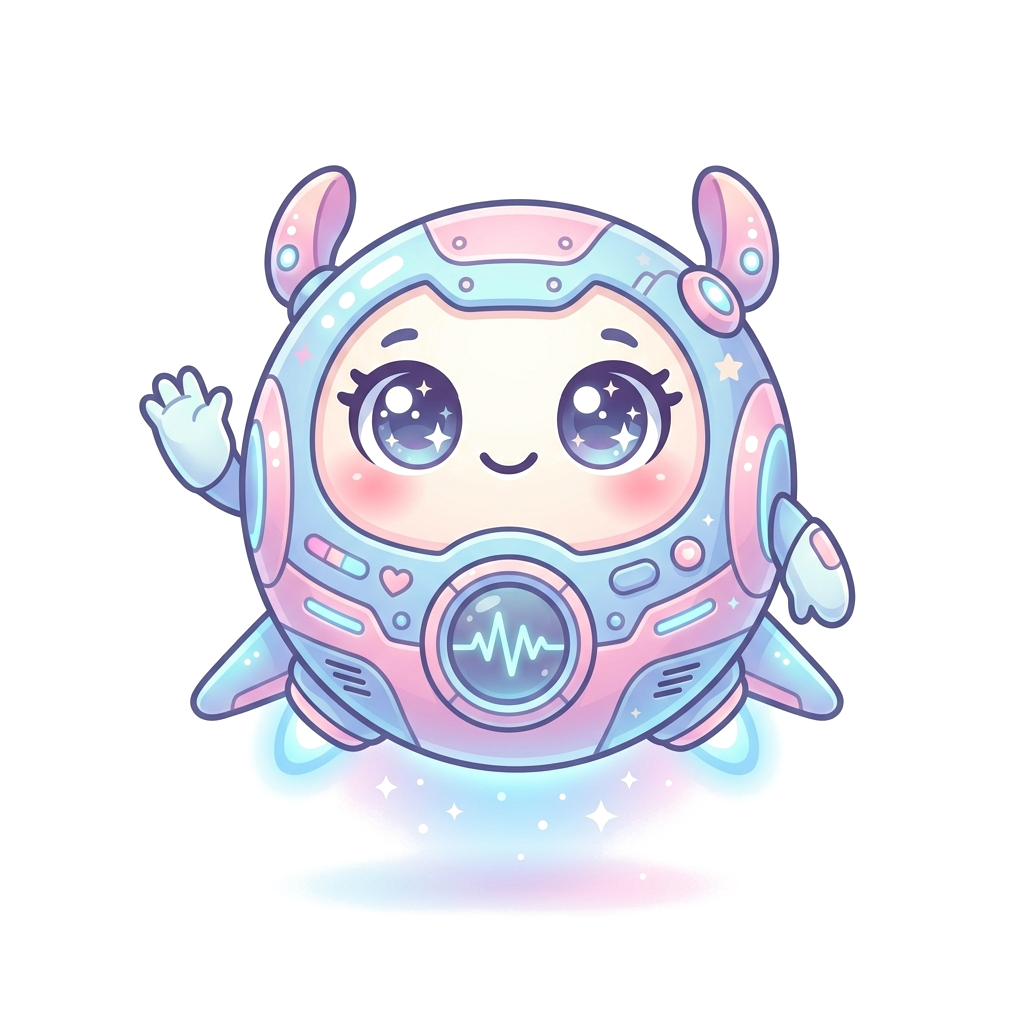
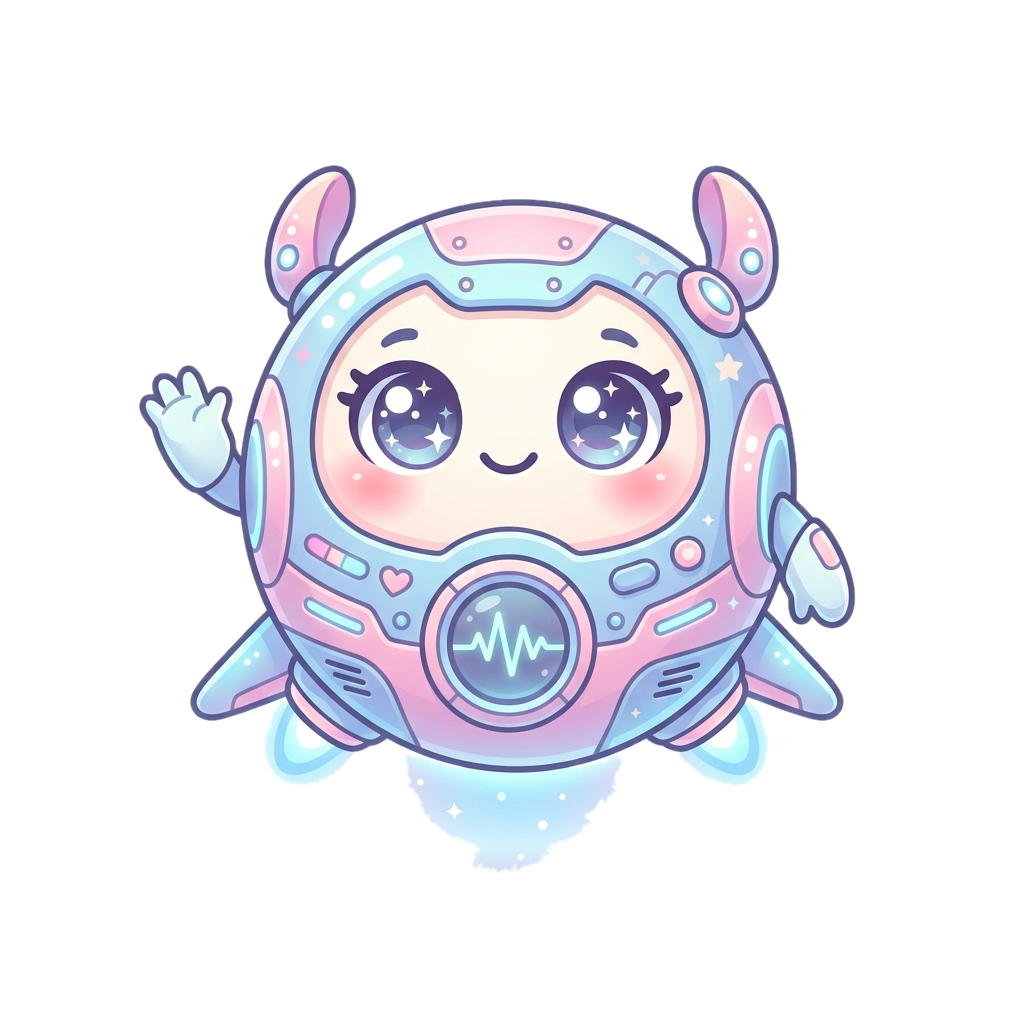
feat: v2.5.9 - clean transparent character backgrounds (preserve internal whites), smooth floating animation without distortion, and add Google AI Studio API key link

Changed region(s): [[0.25, 0.6875, 0.75, 0.9062], [0.75, 0.7188, 0.7812, 0.75], [0.7188, 0.6875, 0.75, 0.7188]]

diff --git a/src/index.html b/src/index.html
@@ -73,12 +73,20 @@
           </div>
           <div class="modal-body">
             <div class="settings-section">
-              <h4 class="settings-section-title">🔑 Gemini API 키 설정</h4>
+              <div style="display:flex; justify-content:space-between; align-items:center; margin-bottom:8px;">
+                <h4 class="settings-section-title" style="margin:0;">🔑 Gemini API 키 설정</h4>
+                <button id="settings-gemini-link-btn" type="button" class="modal-link-btn" title="구글 AI 스튜디오에서 무료 API 키 발급받기">API 키 발급받기 ↗</button>
+              </div>
               <div class="settings-api-row">
                 <input id="settings-gemini-key" type="password" placeholder="Gemini API Key 입력" class="modal-input" />
                 <button id="settings-gemini-save-btn" type="button" class="modal-btn primary">저장</button>
               </div>
-              <p class="settings-tip">Google AI Studio에서 발급받은 키를 입력해주세요.</p>
+              <div style="display:flex; justify-content:space-between; align-items:center; margin-top:6px;">
+                <p class="settings-tip" style="margin:0;">Google AI Studio에서 무료 발급받은 키를 입력해주세요.</p>
+              </div>
+              <div style="margin-top:4px;">
+                <a id="settings-gemini-url" href="#" style="font-size:11px; color:var(--blue); text-decoration:underline; cursor:pointer;" title="구글 AI 스튜디오 페이지 열기">https://aistudio.google.com/app/apikey</a>
+              </div>
             </div>
 
             <hr class="settings-divider" />
@@ -133,7 +141,7 @@
 
             <div class="settings-section settings-info-section">
               <div style="display:flex; justify-content:space-between; align-items:center;">
-                <span style="font-size:12px; color:var(--muted);">앱 버전: <strong id="settings-app-version">v2.5.8</strong></span>
+                <span style="font-size:12px; color:var(--muted);">앱 버전: <strong id="settings-app-version">v2.5.9</strong></span>
                 <span style="font-size:11px; color:#5bbf8d;">최신 버전 적용됨</span>
               </div>
             </div>

diff --git a/src/styles.css b/src/styles.css
@@ -1055,27 +1055,36 @@ input[type="datetime-local"]::-webkit-calendar-picker-indicator {
 
 @keyframes custom-char-anim {
   0%, 100% {
-    transform: translateY(0) rotate(-0.5deg) scaleY(1);
-  }
-  48% {
-    transform: translateY(-6px) rotate(1deg) scaleY(1);
+    transform: translateY(0) rotate(0deg);
   }
   50% {
-    transform: translateY(-6px) rotate(1deg) scaleY(0.08);
-  }
-  52% {
-    transform: translateY(-6px) rotate(1deg) scaleY(1);
-  }
-  75% {
-    transform: translateY(-2px) rotate(-1deg) scaleY(1);
+    transform: translateY(-8px) rotate(1.2deg);
   }
 }
 
 .widget[data-character="custom"] .character-custom {
   display: block !important;
   opacity: 1 !important;
-  animation: custom-char-anim 4.5s ease-in-out infinite;
+  animation: custom-char-anim 3.2s ease-in-out infinite;
   transform-origin: center bottom;
+}
+
+.modal-link-btn {
+  border: none;
+  background: rgba(79, 143, 178, 0.12);
+  color: var(--blue-dark);
+  font-size: 11px;
+  font-weight: 600;
+  padding: 3px 8px;
+  border-radius: 4px;
+  cursor: pointer;
+  transition: all 150ms ease;
+  white-space: nowrap;
+}
+
+.modal-link-btn:hover {
+  background: var(--blue);
+  color: #ffffff;
 }
 
 /* Hide native Chromium datetime picker icon */

diff --git a/src/renderer.js b/src/renderer.js
@@ -1055,6 +1055,8 @@ const settingsModal = document.getElementById('settings-modal');
 const settingsModalCloseBtn = document.getElementById('settings-modal-close-btn');
 const settingsGeminiKeyInput = document.getElementById('settings-gemini-key');
 const settingsGeminiSaveBtn = document.getElementById('settings-gemini-save-btn');
+const settingsGeminiLinkBtn = document.getElementById('settings-gemini-link-btn');
+const settingsGeminiUrl = document.getElementById('settings-gemini-url');
 const charCards = document.querySelectorAll('.char-card');
 const characterCustomImg = document.querySelector('.character-custom');
 
@@ -1137,6 +1139,15 @@ function initSettingsModal() {
       settingsModal.style.display = 'none';
     });
   }
+
+  const openAiStudio = (e) => {
+    e.preventDefault();
+    if (window.characterTodo?.openExternal) {
+      window.characterTodo.openExternal('https://aistudio.google.com/app/apikey');
+    }
+  };
+  if (settingsGeminiLinkBtn) settingsGeminiLinkBtn.addEventListener('click', openAiStudio);
+  if (settingsGeminiUrl) settingsGeminiUrl.addEventListener('click', openAiStudio);
 
   charCards.forEach((card) => {
     card.addEventListener('click', () => {
